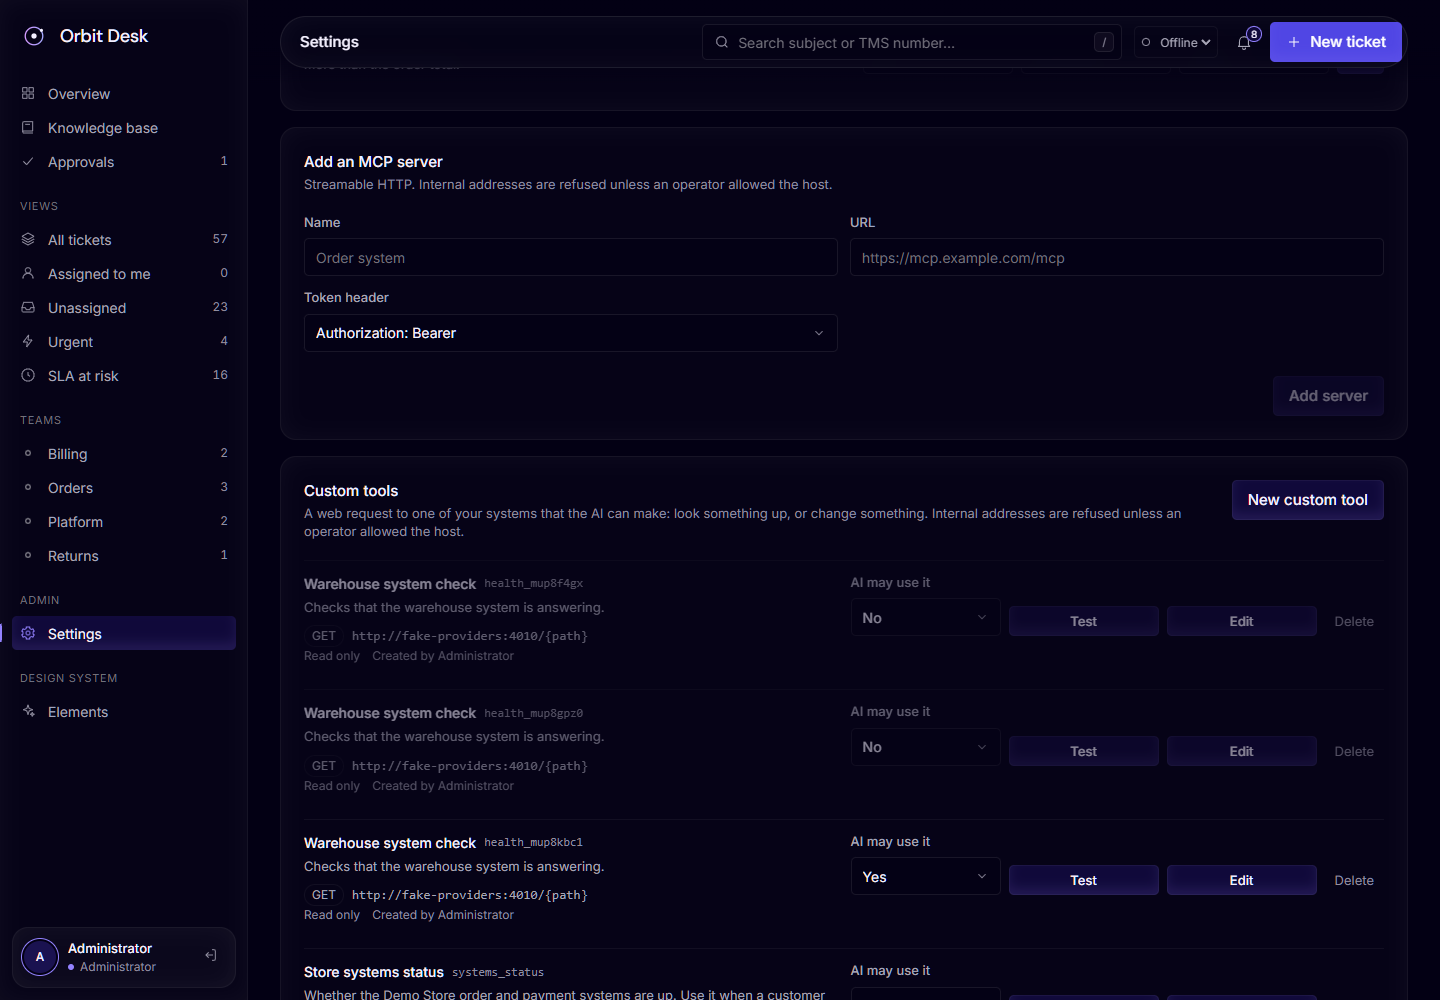
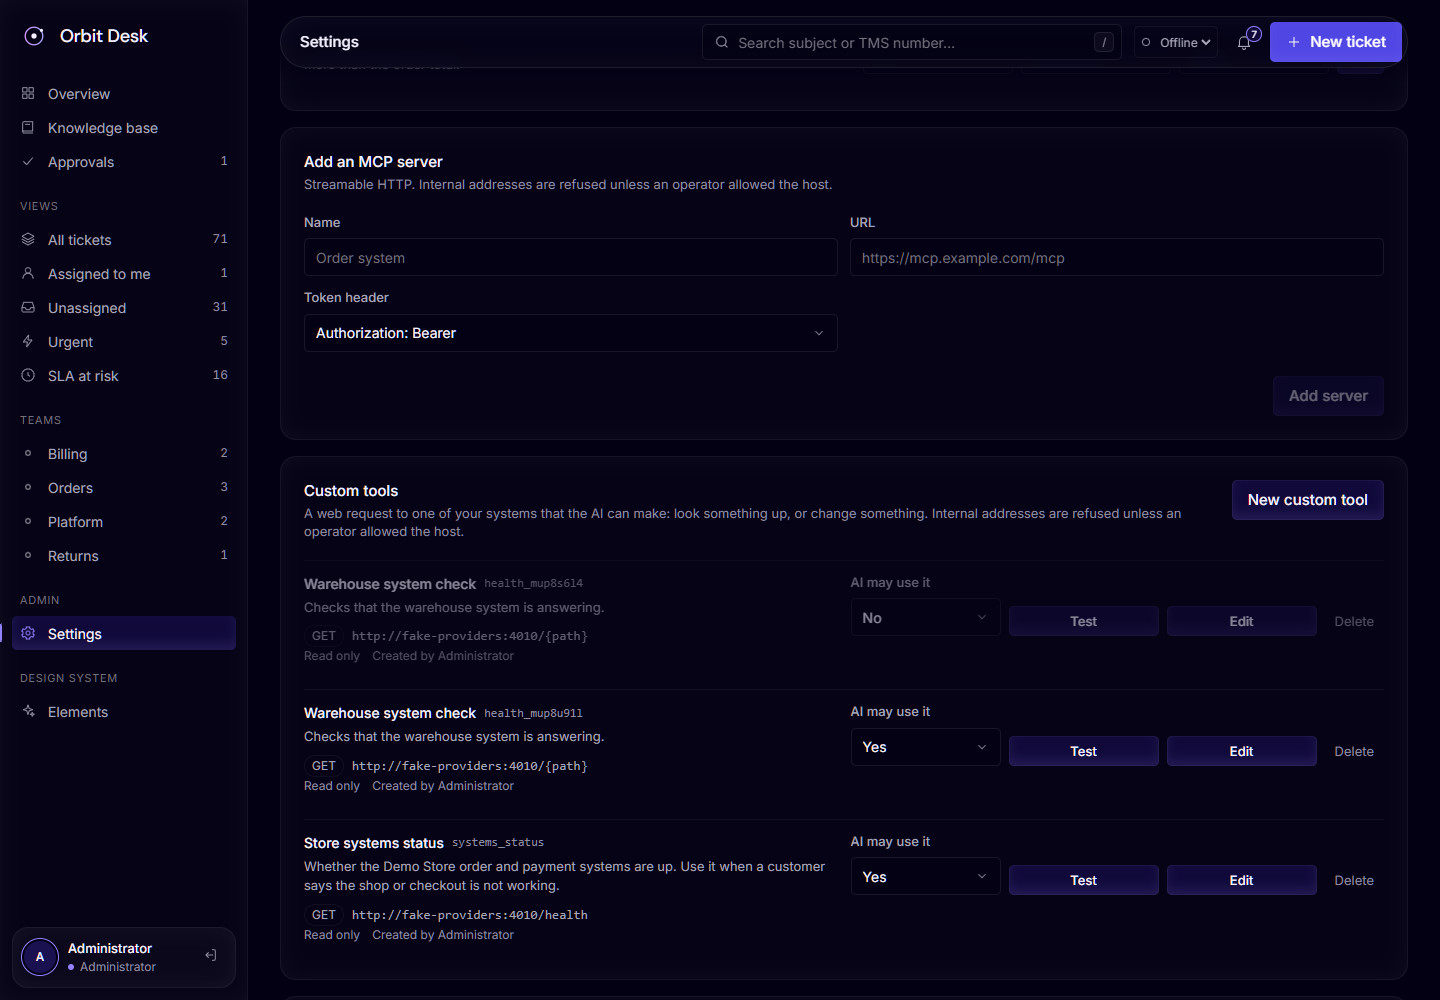
Phase 8c: test report and refreshed screenshots

diff --git a/docs/testing/TEST_REPORT.md b/docs/testing/TEST_REPORT.md
@@ -1,6 +1,84 @@
 # Test report
 
-## Latest: Phase 8b, channel status lights and one-step WhatsApp connect
+## Latest: Phase 8c, custom tools and custom MCP servers
+
+Run on 1 October 2026 against a freshly reset Docker stack (`down -v`, rebuild, `pnpm sample:load`), branch `feat/phase-8c-custom-tools`.
+
+**Result: every step of the gate passed.**
+
+| Step                                              | Result                                                                           |
+| ------------------------------------------------- | -------------------------------------------------------------------------------- |
+| `pnpm format:check`, `lint`, `build`, `typecheck` | pass                                                                             |
+| `pnpm test`                                       | 254 passed (api 140, Orbit Desk 71, shared 23, fake providers 15, help center 5) |
+| `pnpm test:int`                                   | 161 passed (15 files)                                                            |
+| `pnpm e2e`                                        | 63 passed; 9 screenshot-only specs skipped as designed                           |
+| `pnpm kb:eval`                                    | recall@5 = 1.00 (18 of 18)                                                       |
+| `pnpm ai:eval`                                    | 9 of 9 golden conversations passed                                               |
+
+### How custom tools and custom MCP servers were tested
+
+The integration test starts its own "company systems" inside the test: a small HTTP API and an MCP server written with the MCP SDK. Nothing in it uses the bundled Demo Store sample, so it shows that any HTTP API and any streamable-HTTP MCP server work, not only ours.
+
+### Sample data
+
+One custom tool is added: "Store systems status", a GET to the sample server's health address.
+
+### New tests
+
+| Where                                        | Tests | Covers                                                                                                                                                                                           |
+| -------------------------------------------- | ----: | ------------------------------------------------------------------------------------------------------------------------------------------------------------------------------------------------ |
+| `apps/api/src/tools/http-tool.test.ts`       |    13 | Building the request (placeholders escaped, query or JSON body, key header), answers (JSON, text, empty, 4xx, 5xx, 429), no redirects, private addresses, definition rules, the generated schema |
+| `apps/orbit-desk/.../tools/logic.test.ts`    |    +3 | The custom tool form round trip                                                                                                                                                                  |
+| `apps/orbit-desk/.../settings/logic.test.ts` |    +1 | The Tools tab for someone who may only create custom tools                                                                                                                                       |
+| `apps/api/test/custom-tools.int.test.ts`     |    14 | See below                                                                                                                                                                                        |
+| `e2e/tests/custom-tools.spec.ts`             |     4 | See below                                                                                                                                                                                        |
+
+`custom-tools.int.test.ts` covers:
+
+- **Permission:** agents, team leads and supervisors are refused until an admin grants `tool:create`. A granted team lead can create tools but still can't see MCP servers or set keys. Revoking stops it. Only delegable permissions can be granted, and the administrator role can't be changed. Grants are audited.
+- **Definitions:** metadata and private addresses, undeclared placeholders, bad names and duplicate names are refused.
+- **Calls:** a new tool starts off; a test call sends the key, the escaped path value and the query; missing or unexpected arguments are refused before any request; a 404 is reported as the system's answer; POST sends a JSON body; a redirect is not followed.
+- **Outages:** after repeated 503s the tool is paused without another request, and other custom tools keep working.
+- **Lifecycle:** edit and switch on keep the name; an unused tool can be deleted; a used one can't; the holder of custom tools can't be removed as a server.
+- **The AI:** it answers "Where is my order?" from a custom tool, with the customer's email filled in by TMS, not by the model. A transactional custom tool waits for a supervisor, and runs only after approval.
+- **A custom MCP server:** added with an `X-Api-Key` key; a sync without the key fails and the reason is kept; with the key its tools arrive switched off, with tier and customer argument guessed from the server's hints; a call returns its result; a tool error and invalid arguments are reported; an unreachable server records why the sync failed.
+
+`custom-tools.spec.ts` covers:
+
+- An admin creates a tool in the dialog (an internal address and a missing value are refused with reasons), tests it, switches it on, edits it, and is told a used tool can only be switched off.
+- A team lead is refused until the admin ticks the role. The lead then sees one Settings tab with custom tools only, creates a tool, and still can't reach keys or MCP servers. Unticking removes access.
+- An admin adds a second MCP server through the form: sync fails without the key, then succeeds, tools arrive switched off, and a test call returns the order.
+- The dialog fits a phone screen.
+
+### Bugs found and fixed
+
+1. **Every Settings dialog had no padding and could not scroll** (providers, models, routing rules, SLA, tool tests, handover reasons). Content sat flush against the edge, and a tall form was cut off. Found on the new tool dialog; fixed once in the shared dialog component.
+2. **Checkbox labels in Models and SLA settings were laid out as rows with a top border.** The Phase 8b status lights reused the class name `check`. The lights now use their own class.
+3. **The role checkbox did not react until the server answered.** It now changes at once.
+
+### Known limits
+
+- A custom tool is one request: no pagination, no response mapping, no extra headers besides the key.
+- A role with `tool:create` can make the AI send customer data to any public address that role chooses. Grant it with that in mind.
+- A grant can take up to ten seconds to reach other API instances.
+
+### Screenshots
+
+Custom tools in Settings → Tools & MCP:
+
+![Custom tools](screenshots/orbit-custom-tools.png)
+
+The new custom tool dialog:
+
+![New custom tool](screenshots/orbit-custom-tool-new.png)
+
+Who can create custom tools:
+
+![Tool creators](screenshots/orbit-tool-creators.png)
+
+---
+
+## Phase 8b: channel status lights and one-step WhatsApp connect
 
 Run on 1 October 2026 against a freshly reset Docker stack (`down -v`, rebuild, `pnpm sample:load`), branch `feat/phase-8b-channel-health`.
 
